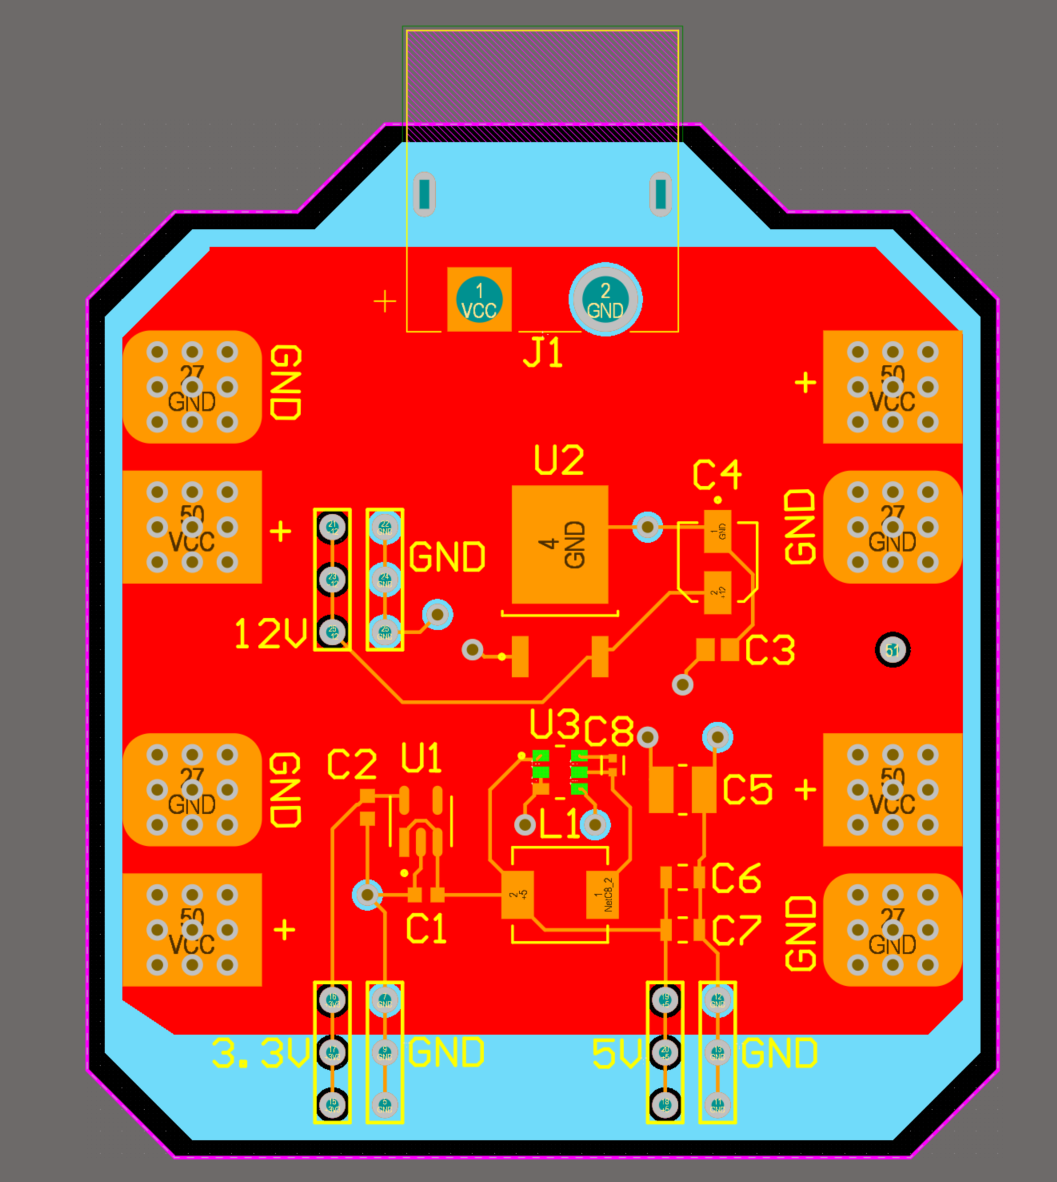
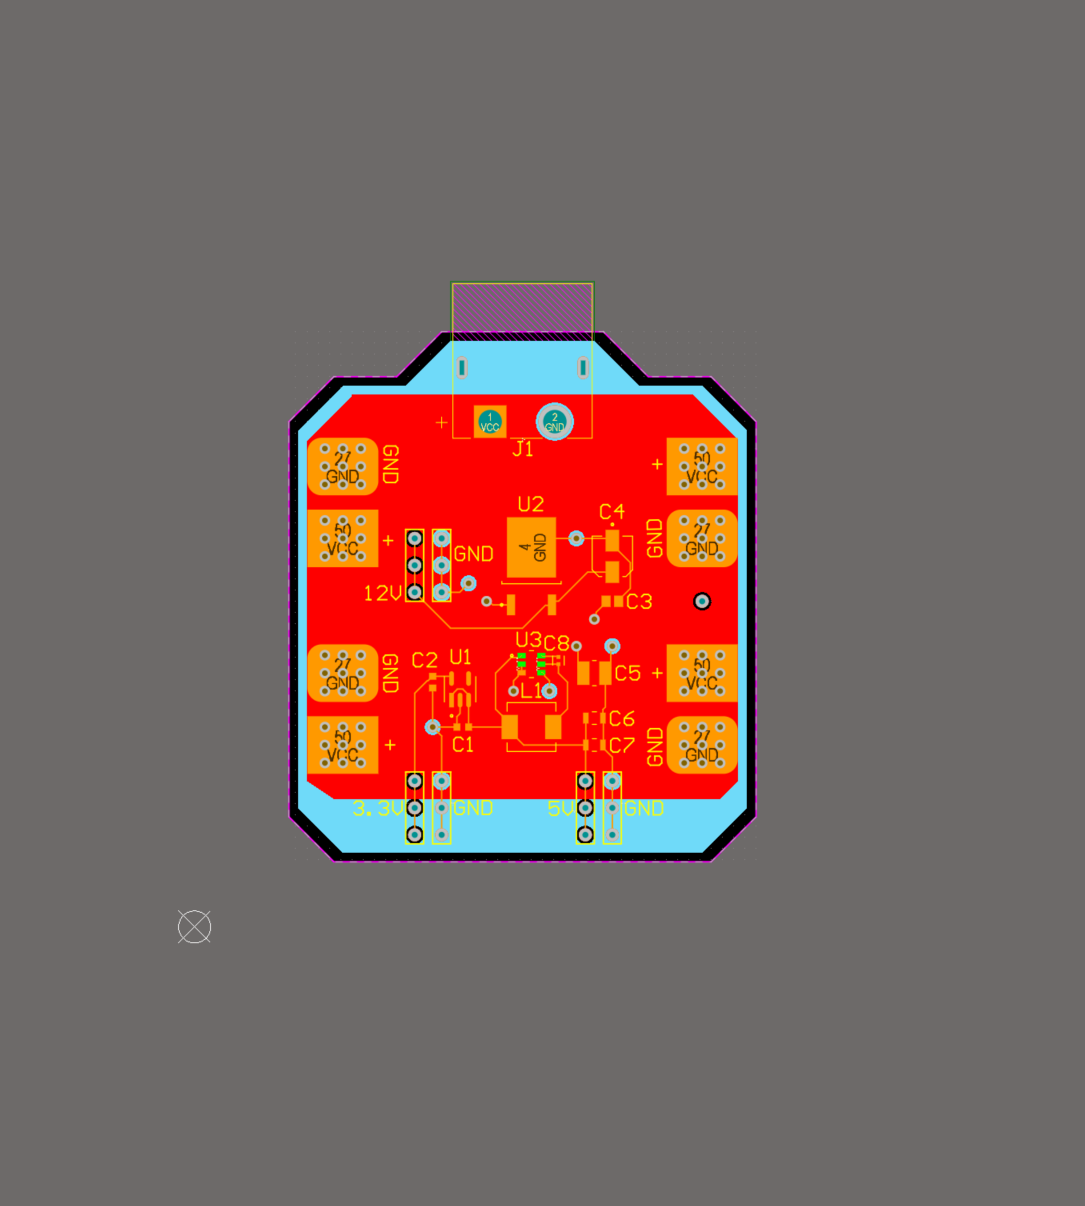
Retitle PDB project, trim top meta, add V2 redesign + IMU bench figure
- Retitle to "Avionics & Power Distribution PCB for RC Plane" across
  the homepage card, detail hero, and both neighboring nav links
- Drop the STM32/ExpressLRS chips from the detail-page header
- Swap the homepage thumbnail for a less-cropped shot of the board
- Add a "What's Changing for V2" section covering the buck-converter
  swap, input transient protection, and output-cap voltage derating
- Add a bench-test figure of the STM32 wired to the BNO085 IMU

diff --git a/index.html b/index.html
@@ -1478,7 +1478,7 @@ footer .wrap { display: flex; justify-content: space-between; flex-wrap: wrap; g
             </div>
             <div class="project-body">
               <div class="project-ref">PROJ-03</div>
-              <h3>C-130 Autonomous RC Drone</h3>
+              <h3>Avionics &amp; Power Distribution PCB for RC Plane</h3>
               <p>Building the flight controller and RF system for an autonomous RC drone.</p>
               <div class="project-tags">
                 <span class="tag">Drone Control</span><span class="tag">Communications</span><span class="tag">Signal Processing</span><span class="tag">Component Selection</span><span class="tag">RF</span>
@@ -1774,7 +1774,7 @@ footer .wrap { display: flex; justify-content: space-between; flex-wrap: wrap; g
     </div>
 
     <div class="detail-nav">
-      <a data-route="rcplane">← C-130 Autonomous RC Drone</a>
+      <a data-route="rcplane">← Avionics &amp; Power Distribution PCB for RC Plane</a>
       <a data-route="aiagent">Next: Building an AI Secretary That Actually Works →</a>
     </div>
   </div>
@@ -1844,7 +1844,7 @@ footer .wrap { display: flex; justify-content: space-between; flex-wrap: wrap; g
 
     <div class="detail-nav">
       <a data-route="pcb">← Modular Bicycle Lighting</a>
-      <a data-route="rcplane">Next: C-130 Autonomous RC Drone →</a>
+      <a data-route="rcplane">Next: Avionics &amp; Power Distribution PCB for RC Plane →</a>
     </div>
   </div>
 </main>
@@ -1858,12 +1858,10 @@ footer .wrap { display: flex; justify-content: space-between; flex-wrap: wrap; g
     <header class="detail-hero">
       <a class="back-link" data-route="home" data-scroll="projects">← Back to projects</a>
       <div class="eyebrow">PROJ-03</div>
-      <h1>C-130 Autonomous RC Drone</h1>
+      <h1>Avionics &amp; Power Distribution PCB for RC Plane</h1>
       <div class="detail-meta">
         <div><strong>Ongoing</strong>Timeline</div>
         <div><strong>Electronics Team</strong>Role</div>
-        <div><strong>STM32</strong>Flight Computer</div>
-        <div><strong>ExpressLRS</strong>Radio Link</div>
       </div>
     </header>
 
@@ -1882,7 +1880,7 @@ footer .wrap { display: flex; justify-content: space-between; flex-wrap: wrap; g
         </figure>
       </div>
 
-      <p>I designed and laid out the board myself in Altium Designer, my second PCB overall but my first time using Altium. Before sending it off to be made, I had a teammate review it, which turned up a few real problems worth fixing now: the 12V regulator is a linear part that can't hold up once the battery sags under heavy motor load, there's nothing yet to absorb the voltage spikes the motor controllers throw off, and the 3.3V regulator needs to come off the clean 5V rail instead of the raw battery. The next revision swaps that 12V regulator for a buck converter, adds transient protection at the battery input, and tightens up the copper for the high-current paths.</p>
+      <p>I designed and laid out the board myself in Altium Designer, my second PCB overall but my first time using Altium. Before sending it off to be made, I had a teammate review it, which turned up a few real problems worth fixing now: the 12V regulator is a linear part that can't hold up once the battery sags under heavy motor load, there's nothing yet to absorb the voltage spikes the motor controllers throw off, and the 3.3V regulator needs to come off the clean 5V rail instead of the raw battery.</p>
 
       <div class="figure-grid single">
         <figure class="figure">
@@ -1892,8 +1890,19 @@ footer .wrap { display: flex; justify-content: space-between; flex-wrap: wrap; g
         </figure>
       </div>
 
+      <h2>What's Changing for V2</h2>
+      <p>Here's what the next board fixes: the 12V regulator swaps from that linear part to a small buck converter, so it stays regulated even as the battery sags under load instead of dropping out or wasting the difference as heat. I'm adding a diode and a bulk capacitor across the battery input to catch the voltage spikes the motor controllers throw off before they reach anything downstream. The output capacitors on that rail are also getting bumped up to a higher voltage rating — ceramic capacitors quietly lose some of their capacitance the closer they run to their rated voltage, so this builds in more margin. And the high-current paths are moving from routed traces to solid copper pours tied together with vias, which spreads the current and the heat out more evenly.</p>
+
       <h2>Flight Computer</h2>
-      <p>The flight computer is built around an STM32, which will handle the motor and servo outputs, read the IMU and GPS, and run the control logic for autonomous flight. The toolchain is up and running; next is wiring in the 9-axis IMU and GPS module and building out the actual flight-control code.</p>
+      <p>The flight computer is built around an STM32, which will handle the motor and servo outputs, read the IMU and GPS, and run the control logic for autonomous flight. The toolchain is up and running, and I've got the 9-axis IMU wired in and being tested on the bench; next is bringing in the GPS module and building out the actual flight-control code.</p>
+
+      <div class="figure-grid single">
+        <figure class="figure">
+          <div class="figure-img wide">
+          <img src="assets/images/rc-drone-stm32-imu.jpeg" alt="STM32 dev board wired to a BNO085 9-axis IMU on a breadboard"></div>
+          <figcaption class="figure-cap">Fig. 3 — Bench-testing the STM32 against the IMU before it goes on the plane</figcaption>
+        </figure>
+      </div>
 
       <h2>Radio Link</h2>
       <p>I set up and tested the drone's wireless link myself: a RadioMaster Pocket transmitter talking to a RadioMaster RP4TD receiver over ExpressLRS. It's bound, holding a stable connection, and reading all 16 control channels cleanly. Left to do: mapping which stick and switch drives which channel, soldering permanent wiring, and connecting the channels to actual servo and motor control.</p>
